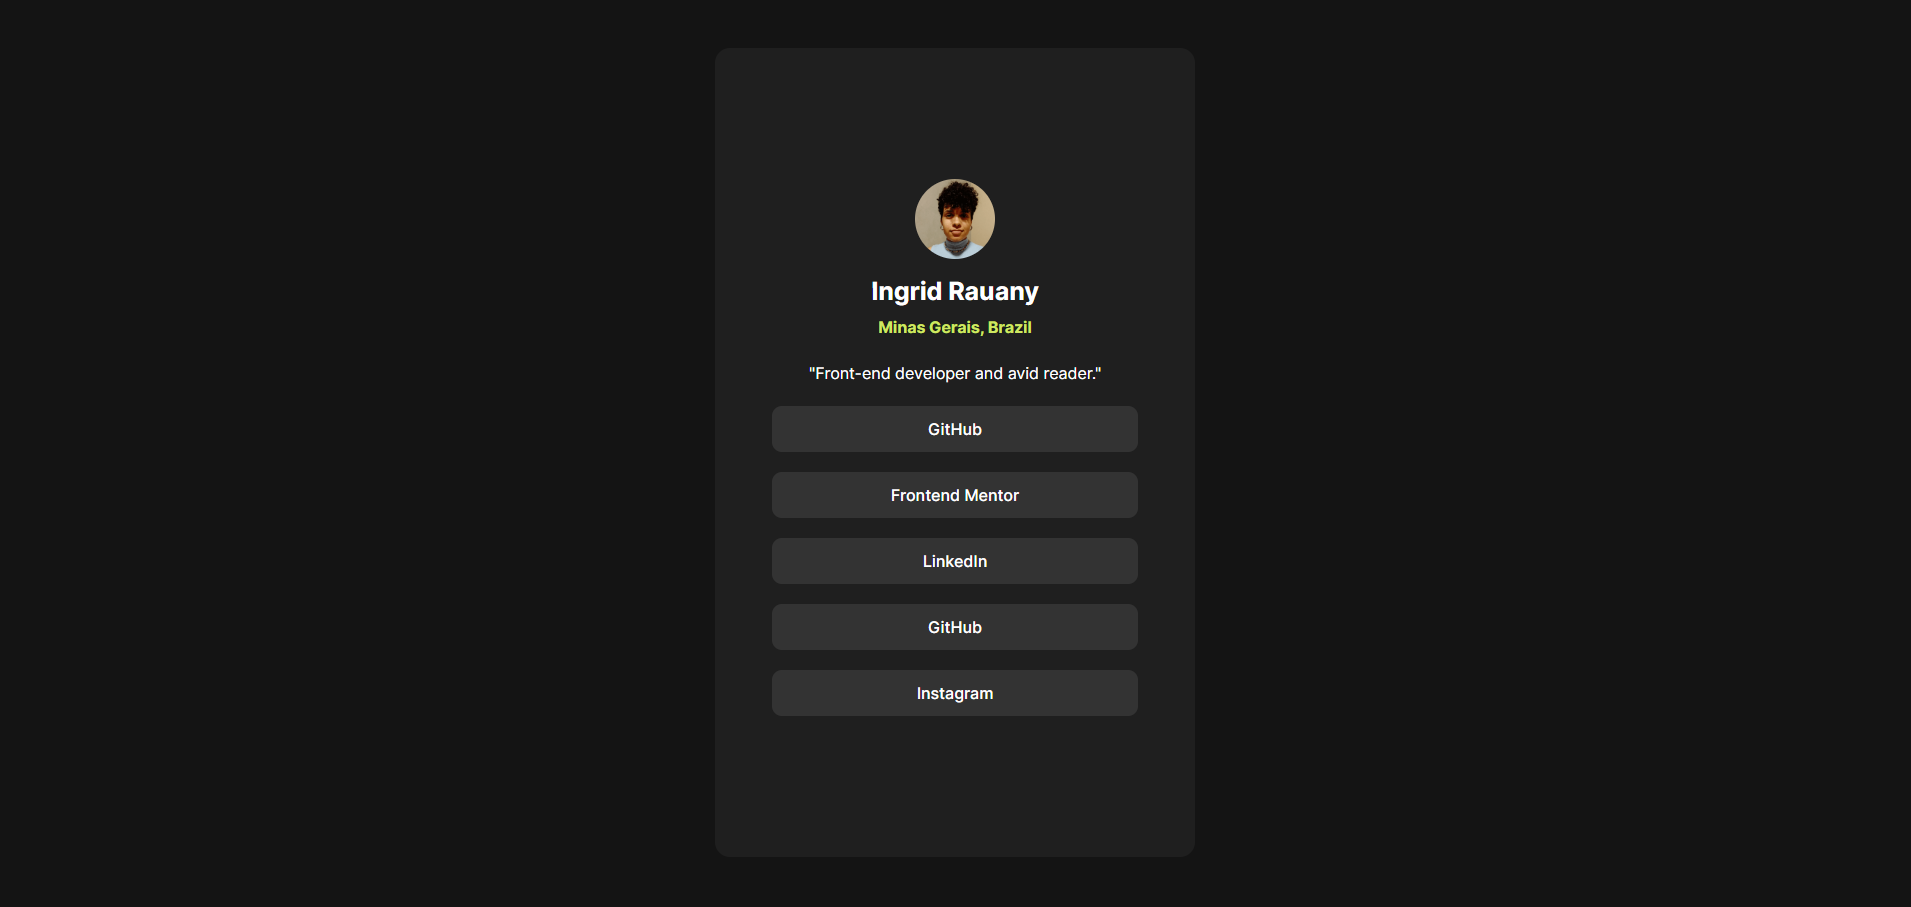
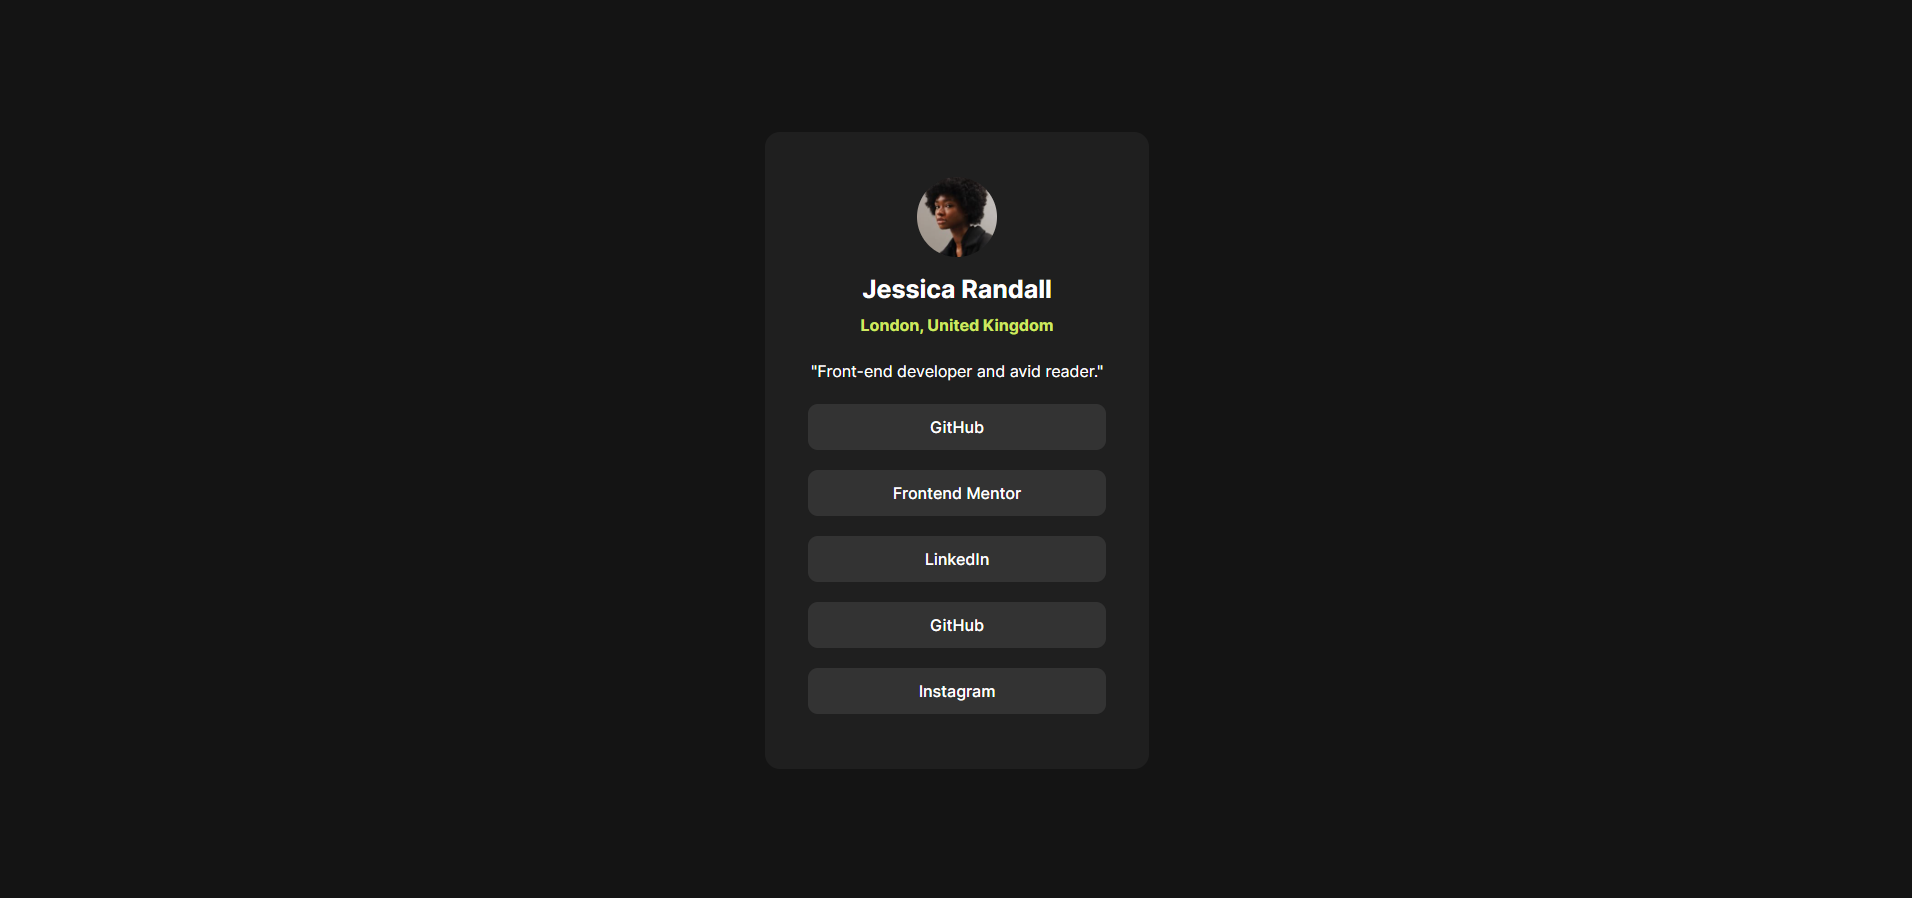
Change components infos and screenshot

diff --git a/social-links-profile/src/App.tsx b/social-links-profile/src/App.tsx
@@ -7,8 +7,8 @@ const App = () => {
     <Container>
       <Card>
         <ProfilePicture />
-        <Name>Ingrid Rauany</Name>
-        <Location>Minas Gerais, Brazil</Location>
+        <Name>Jessica Randall</Name>
+        <Location>London, United Kingdom</Location>
         <Description>&quot;Front-end developer and avid reader.&quot;</Description>
         <SocialButtons socialLinks={socialLinks} />
       </Card>

diff --git a/social-links-profile/src/components/ProfilePicture/ProfilePicture.tsx b/social-links-profile/src/components/ProfilePicture/ProfilePicture.tsx
@@ -1,9 +1,10 @@
+import ProfilePhoto from "@assets/avatar-jessica.jpeg";
 import { ProfilePictureContainer } from "./styles";
 
 export function ProfilePicture() {
   return (
     <ProfilePictureContainer>
-      <img src="https://avatars.githubusercontent.com/u/8135837?v=4" alt="Ingrid Rauany Profile" />
+      <img src={ProfilePhoto} alt="Jessica Randall Profile" />
     </ProfilePictureContainer>
   );
 }

diff --git a/social-links-profile/src/components/Card/styles.tsx b/social-links-profile/src/components/Card/styles.tsx
@@ -7,9 +7,8 @@ export const CardBox = styled.main`
   align-items: center;
   background-color: #1f1f1f;
   border-radius: 15px;
-  width: 25%;
-  height: 80%;
-  padding: 40px 0;
+  width: 20%;
+  min-height: 70%;
 
   @media (max-width: 450px) {
     width: 80%;
